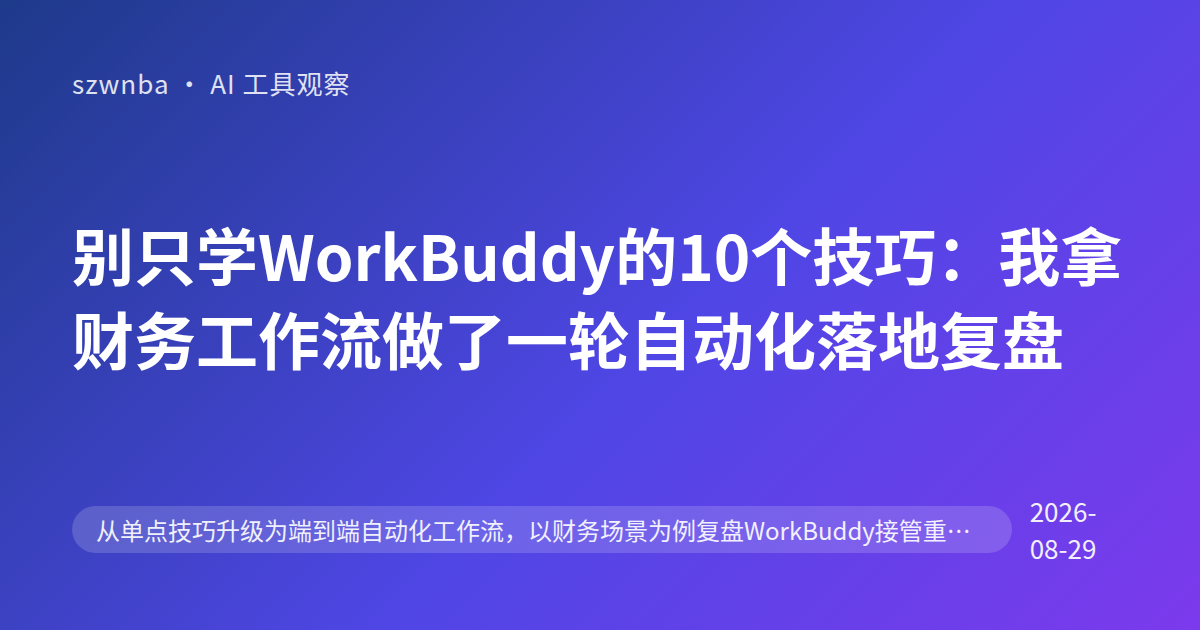
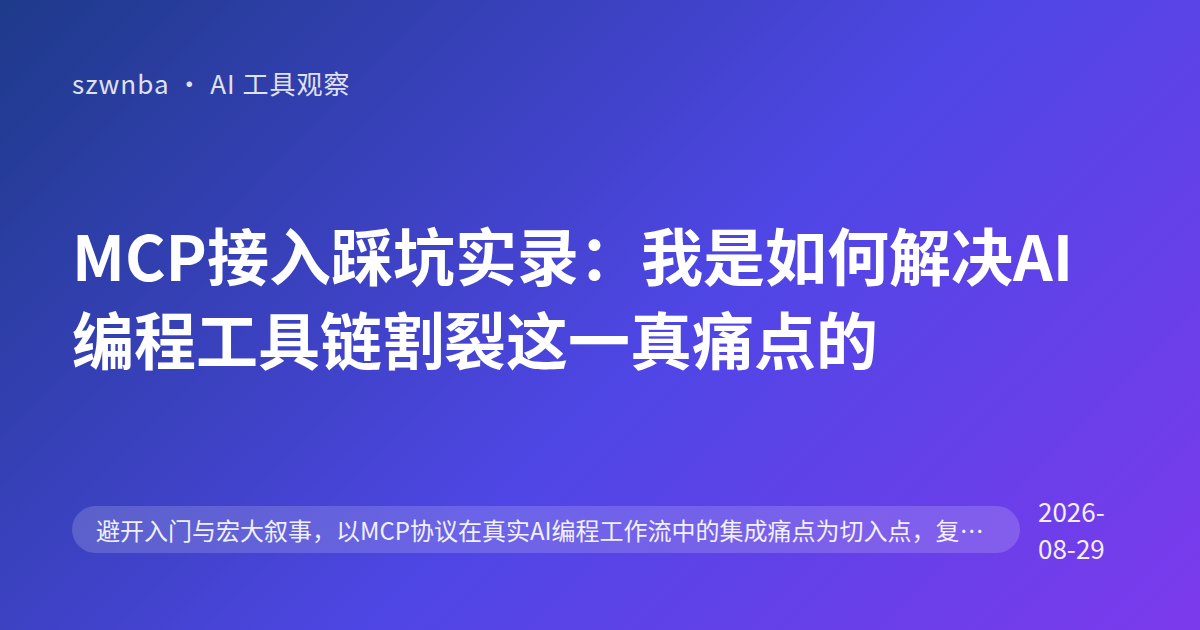
publish: 2026-08-29 10:45

diff --git a/posts/2026-08-29-02.html b/posts/2026-08-29-02.html
@@ -1,16 +1,16 @@
 <!DOCTYPE html>
 <html lang="zh-CN"><head><meta charset="utf-8"/>
 <meta name="viewport" content="width=device-width, initial-scale=1"/>
-<title>别只学WorkBuddy的10个技巧：我拿财务工作流做了一轮自动化落地复盘 · szwnba · AI 工具观察</title>
+<title>MCP接入踩坑实录：我是如何解决AI编程工具链割裂这一真痛点的 · szwnba · AI 工具观察</title>
 <link rel="stylesheet" href="../style.css"/>
 </head><body>
 <header class="site"><div class="container">
 <h1><a href="../index.html">← szwnba · AI 工具观察</a></h1>
 </div></header>
 <main class="container"><article class="post">
-<h1>别只学WorkBuddy的10个技巧：我拿财务工作流做了一轮自动化落地复盘</h1>
-<div class="meta">2026-08-29 · 从单点技巧升级为端到端自动化工作流，以财务场景为例复盘WorkBuddy接管重复性劳动的真实落地路径与边界。 · AI 辅助生成</div>
-<p>&lt;h1&gt;别只学WorkBuddy的10个技巧：我拿财务工作流做了一轮自动化落地复盘&lt;/h1&gt;<br/>&lt;p&gt;之前很多人问我WorkBuddy怎么玩。&lt;/p&gt;<br/>&lt;p&gt;我随手甩了10个快捷键技巧过去。&lt;/p&gt;<br/>&lt;p&gt;他们回：「学会了，但我还是觉得我在用AI。」&lt;/p&gt;<br/>&lt;p&gt;这话挺扎心的。&lt;/p&gt;<br/>&lt;p&gt;因为我刚开始也是这么用的。&lt;/p&gt;<br/>&lt;p&gt;把WorkBuddy当成一个超级聪明的实习生。&lt;/p&gt;<br/>&lt;p&gt;哪怕只是帮我把Excel里的乱码清洗一下，我也得手动点鼠标、复制粘贴、再发给它。&lt;/p&gt;<br/>&lt;p&gt;这哪里是提效，这分明是给AI打工。&lt;/p&gt;<br/>&lt;p&gt;直到上个月，我们部门接了一个月度结账的任务。&lt;/p&gt;<br/>&lt;p&gt;一共要处理50家子公司的费用报销单。&lt;/p&gt;<br/>&lt;p&gt;以前这事儿得弄三天。&lt;/p&gt;<br/>&lt;p&gt;这次我想试试，能不能用WorkBuddy搭一条流水线，让它从「助手」变成「主管」。&lt;/p&gt;<br/>&lt;p&gt;过程挺折腾的，但我把这个复盘写出来，希望能帮你省点时间。&lt;/p&gt;<br/>&lt;p&gt;先说说背景。&lt;/p&gt;<br/>&lt;p&gt;我们的财务数据分散在三个地方：&lt;/p&gt;<br/>&lt;p&gt;微信里的发票图片、钉钉上的审批记录、还有ERP系统导出的原始流水。&lt;/p&gt;<br/>&lt;p&gt;这三块数据，平时基本靠人工搬运。&lt;/p&gt;<br/>&lt;p&gt;我当时的设想很简单。&lt;/p&gt;<br/>&lt;p&gt;让WorkBuddy自动完成整个闭环。&lt;/p&gt;<br/>&lt;p&gt;不需要我盯着，也不需要我每天去检查进度。&lt;/p&gt;<br/>&lt;p&gt;我要的是：周一早上9点，我打开文档，报表已经在那儿了。&lt;/p&gt;<br/>&lt;p&gt;听起来很爽对吧？&lt;/p&gt;<br/>&lt;p&gt;但现实是，你根本不知道怎么开始。&lt;/p&gt;<br/>&lt;p&gt;因为「自动化」这三个字太宏大了。&lt;/p&gt;<br/>&lt;p&gt;你得把它拆碎，拆到连傻瓜都能看懂的步骤。&lt;/p&gt;<br/>&lt;p&gt;我把整个流程拆成了四步：&lt;/p&gt;<br/>&lt;p&gt;第一步，数据收集。&lt;/p&gt;<br/>&lt;p&gt;第二步，数据清洗。&lt;/p&gt;<br/>&lt;p&gt;第三步，智能对账。&lt;/p&gt;<br/>&lt;p&gt;第四步，报告生成。&lt;/p&gt;<br/>&lt;p&gt;听起来很顺，对吧？&lt;/p&gt;<br/>&lt;p&gt;第一步就卡住了。&lt;/p&gt;<br/>&lt;p&gt;微信里的发票图片，WorkBuddy怎么拿？&lt;/p&gt;<br/>&lt;p&gt;它不能直接登录你的微信。&lt;/p&gt;<br/>&lt;p&gt;我试了很多办法，最后发现最简单的办法是「半自动」。&lt;/p&gt;<br/>&lt;p&gt;我用一个自动化工具（比如Dify或者类似的Agent平台），设置一个定时任务。&lt;/p&gt;<br/>&lt;p&gt;每天早上8点，自动抓取前一天转发到指定文件助手的发票图片。&lt;/p&gt;<br/>&lt;p&gt;然后，把这些图片推送到WorkBuddy的输入端。&lt;/p&gt;<br/>&lt;p&gt;这一步，我花了一整天调试。&lt;/p&gt;<br/>&lt;p&gt;因为微信的图片经常压缩，导致OCR识别率只有60%。&lt;/p&gt;<br/>&lt;p&gt;后来我把图片的清晰度参数调高，同时要求WorkBuddy在识别模糊时，不要瞎猜，而是把原文截图发回给我确认。&lt;/p&gt;<br/>&lt;p&gt;这一步的边界是：&lt;/p&gt;<br/>&lt;p&gt;AI不能完全替代人工确认，尤其是涉及钱的时候。&lt;/p&gt;<br/>&lt;p&gt;所以，我给它加了一个「红灯机制」。&lt;/p&gt;<br/>&lt;p&gt;凡是置信度低于90%的数据，全部暂停，等待人工干预。&lt;/p&gt;<br/>&lt;p&gt;这一步让我意识到：&lt;/p&gt;<br/>&lt;p&gt;自动化不是为了偷懒，是为了把人的精力集中在出错的环节。&lt;/p&gt;<br/>&lt;p&gt;第二步，数据清洗。&lt;/p&gt;<br/>&lt;p&gt;这是WorkBuddy最擅长的部分。&lt;/p&gt;<br/>&lt;p&gt;我把从各个渠道汇总来的原始数据，扔给它。&lt;/p&gt;<br/>&lt;p&gt;要求它按照固定的格式，整理成一张宽表。&lt;/p&gt;<br/>&lt;p&gt;包括：日期、金额、科目、发票号、报销人。&lt;/p&gt;<br/>&lt;p&gt;这里有个坑。&lt;/p&gt;<br/>&lt;p&gt;不同子公司用的Excel模板不一样。&lt;/p&gt;<br/>&lt;p&gt;有的叫「金额」，有的叫「含税金额」，有的甚至把备注写在了金额栏里。&lt;/p&gt;<br/>&lt;p&gt;我一开始想让它全自动处理。&lt;/p&gt;<br/>&lt;p&gt;结果报错报得我怀疑人生。&lt;/p&gt;<br/>&lt;p&gt;后来我改变策略。&lt;/p&gt;<br/>&lt;p&gt;不要求它一次搞定。&lt;/p&gt;<br/>&lt;p&gt;而是先让它把格式统一的子集处理好，剩下的差异项单独列出来。&lt;/p&gt;<br/>&lt;p&gt;我把它当成一个「数据翻译官」。&lt;/p&gt;<br/>&lt;p&gt;它负责把乱码翻译成统一的语言，但不能擅自决定那些模棱两可的数据该怎么填。&lt;/p&gt;<br/>&lt;p&gt;这一步教会我：&lt;/p&gt;<br/>&lt;p&gt;标准化的数据源，是自动化工作流的地基。&lt;/p&gt;<br/>&lt;p&gt;地基不稳，上面的楼越高越危险。&lt;/p&gt;<br/>&lt;p&gt;第三步，智能对账。&lt;/p&gt;<br/>&lt;p&gt;这是最激动人心的一步。&lt;/p&gt;<br/>&lt;p&gt;我把ERP导出的银行流水，和刚才清洗好的报销明细，一起喂给WorkBuddy。&lt;/p&gt;<br/>&lt;p&gt;让它做逐笔核对。&lt;/p&gt;<br/>&lt;p&gt;我设定的指令是：&lt;/p&gt;<br/>&lt;p&gt;找出所有金额一致但备注不同的条目，以及金额不一致的异常条目。&lt;/p&gt;<br/>&lt;p&gt;Output要求：生成一个Excel，标红异常项，并附上可能的原因推测。&lt;/p&gt;<br/>&lt;p&gt;比如，「A公司这笔款项，报销单写的是差旅费，但银行摘要写的是服务费，请复核。」&lt;/p&gt;<br/>&lt;p&gt;这一功能，以前需要财务同事盯两天。&lt;/p&gt;<br/>&lt;p&gt;现在，WorkBuddy半小时就跑完了。&lt;/p&gt;<br/>&lt;p&gt;虽然它还无法100%准确判断对错（毕竟它不懂业务背景），但它能发现90%以上的机械性错误。&lt;/p&gt;<br/>&lt;p&gt;比如重复报销、金额小数点点错、同一天同一人重复提交等。&lt;/p&gt;<br/>&lt;p&gt;这些死角，人眼容易疲劳错过，但AI不会。&lt;/p&gt;<br/>&lt;p&gt;这就是「端到端」的价值。&lt;/p&gt;<br/>&lt;p&gt;不是帮你要找一张纸，而是帮你守住一个门。&lt;/p&gt;<br/>&lt;p&gt;第四步，报告生成。&lt;/p&gt;<br/>&lt;p&gt;前面的数据都核对无误后，让WorkBuddy基于这张宽表，生成一段文字分析。&lt;/p&gt;<br/>&lt;p&gt;比如：&lt;/p&gt;<br/>&lt;p&gt;「本月差旅费环比上涨15%，主要贡献来自研发部门。」&lt;/p&gt;<br/>&lt;p&gt;「有3笔大额支出缺乏完整附件，建议跟进。」&lt;/p&gt;<br/>&lt;p&gt;它会把结论写得像个人事报告一样通顺。&lt;/p&gt;<br/>&lt;p&gt;我把这段文字，直接粘贴到向老板汇报的PPT里。&lt;/p&gt;<br/>&lt;p&gt;省去了最后半小时的写话时间。&lt;/p&gt;<br/>&lt;p&gt;整个流程跑通后，效果如何？&lt;/p&gt;<br/>&lt;p&gt;以前50家子公司，我要花3天。&lt;/p&gt;<br/>&lt;p&gt;现在，我只花半天。&lt;/p&gt;<br/>&lt;p&gt;这半天用来做什么？&lt;/p&gt;<br/>&lt;p&gt;用来处理那些WorkBuddy标记出来的「红灯」异常。&lt;/p&gt;<br/>&lt;p&gt;以及，用来思考为什么会有这些异常。&lt;/p&gt;<br/>&lt;p&gt;以前我的时间是花在「搬运」上。&lt;/p&gt;<br/>&lt;p&gt;现在我的时间是花在「判断」上。&lt;/p&gt;<br/>&lt;p&gt;这才是高级玩家和低级玩家的区别。&lt;/p&gt;<br/>&lt;p&gt;低级玩家用AI写文章，高级玩家用AI搭系统。&lt;/p&gt;<br/>&lt;p&gt;当然，这个工作流并不是完美的。&lt;/p&gt;<br/>&lt;p&gt;它有几个明显的边界，我必须诚实地告诉你。&lt;/p&gt;<br/>&lt;p&gt;首先是数据隐私。&lt;/p&gt;<br/>&lt;p&gt;如果你的公司禁止使用外部AI工具处理财务数据，这套方案直接报废。&lt;/p&gt;<br/>&lt;p&gt;你需要在本地部署模型，或者使用私有云版本的WorkBuddy。&lt;/p&gt;<br/>&lt;p&gt;这点我没有深入展开，因为涉及很多技术架构问题，大家按需调研。&lt;/p&gt;<br/>&lt;p&gt;其次是维护成本。&lt;/p&gt;<br/>&lt;p&gt;这套流水线一旦上游系统变了，比如ERP导出格式调整了一列，工作流就会断。&lt;/p&gt;<br/>&lt;p&gt;你需要有专人（或者你自己）随时关注这些接口变化。&lt;/p&gt;<br/>&lt;p&gt;它不是「装好就不用管」的东西，它是一个需要精心照料的机器人。&lt;/p&gt;<br/>&lt;p&gt;最后是信任成本。&lt;/p&gt;<br/>&lt;p&gt;刚开始，财务同事很抗拒。&lt;/p&gt;<br/>&lt;p&gt;因为他们怕AI算错账，背锅。&lt;/p&gt;<br/>&lt;p&gt;我花了两周时间，每天把AI的结果和人工复核的结果放在旁边对比。&lt;/p&gt;<br/>&lt;p&gt;让他们看到，AI确实能发现人眼忽略的细节。&lt;/p&gt;<br/>&lt;p&gt;慢慢地，他们开始主动提需求。&lt;/p&gt;<br/>&lt;p&gt;比如：「能不能帮我查查这家的历史付款规律？」&lt;/p&gt;<br/>&lt;p&gt;这时候，自动化才真正产生了价值。&lt;/p&gt;<br/>&lt;p&gt;所以，回到一开始的问题。&lt;/p&gt;<br/>&lt;p&gt;别只学那10个技巧。&lt;/p&gt;<br/>&lt;p&gt;技巧是点，工作流是线，系统是面。&lt;/p&gt;<br/>&lt;p&gt;你可以先从一个小场景切入。&lt;/p&gt;<br/>&lt;p&gt;比如，自动汇总周报。&lt;/p&gt;<br/>&lt;p&gt;或者，自动整理会议纪要并提取待办事项。&lt;/p&gt;<br/>&lt;p&gt;不要一上来就搞财务对账这种大事。&lt;/p&gt;<br/>&lt;p&gt;先跑通一个小闭环，找到那个「原来可以这样」的爽点。&lt;/p&gt;<br/>&lt;p&gt;然后，再把这条线延伸出去。&lt;/p&gt;<br/>&lt;p&gt;AI不会替你思考，但它可以替你挡住那些平庸的噪音。&lt;/p&gt;<br/>&lt;p&gt;让你有余力，去思考那些真正重要的事。&lt;/p&gt;<br/>&lt;p&gt;这是我这个月最大的心得。&lt;/p&gt;<br/>&lt;hr/&gt;<br/>&lt;p&gt;&lt;strong&gt;需要我人工补充的地方：&lt;/strong&gt;&lt;/p&gt;<br/>&lt;ol&gt;&lt;li&gt;【待补充】具体的中间件配置教程：如何设置微信图片自动抓取脚本（如果读者技术背景较弱，可能需要更详细的图解或视频链接）。&lt;/li&gt;&lt;li&gt;【待补充】具体的Prompt范例：关于「智能对账」那一步，我给出的提示词可能不够通用，可以补充一个针对其他行业（如销售数据对账）的Prompt模板。&lt;/li&gt;&lt;li&gt;【待补充】本地部署方案：对于有严格数据安全要求的读者，可以补充一个简单的本地LLM部署（如Ollama+WorkBuddy）的入门指引。&lt;/li&gt;&lt;/ol&gt;</p>
+<h1>MCP接入踩坑实录：我是如何解决AI编程工具链割裂这一真痛点的</h1>
+<div class="meta">2026-08-29 · 避开入门与宏大叙事，以MCP协议在真实AI编程工作流中的集成痛点为切入点，复盘从环境配置到多Agent协同踩坑与解决的完整一手实操经历。 · AI 辅助生成</div>
+<p>&lt;h1&gt;MCP接入踩坑实录：我是如何解决AI编程工具链割裂这一真痛点的&lt;/h1&gt;<br/>&lt;p&gt;前阵子想给本地跑的一个 Agent 加个能调取本地文件的能力。&lt;/p&gt;<br/>&lt;p&gt;按理说，这应该是刚需中的刚需。&lt;/p&gt;<br/>&lt;p&gt;但我花了一整天时间，最后只换来一串报错和满屏的 JSON  Schema 看不懂。&lt;/p&gt;<br/>&lt;p&gt;也就是那一刻我意识到，MCP（Model Context Protocol）这概念，吹得太好听，用起来全是坑。&lt;/p&gt;<br/>&lt;p&gt;今天不聊宏观架构，就聊聊我在真实 AI 编程工作流里，到底踩了哪些雷，又是怎么填上的。&lt;/p&gt;<br/>&lt;p&gt;如果你也正在试图把 MCP 塞进自己的开发环境，这篇也许能帮你省下几个下午。&lt;/p&gt;<br/>&lt;figure style=&quot;margin:0&quot;&gt;&lt;img src=&quot;此处待补图&quot; alt=&quot;图注：MCP 协议架构图，展示客户端、服务器与资源的连接&quot;/&gt;&lt;figcaption style=&quot;text-align:center;color:#9ca3af;font-size:13px;margin:4px 0 18px&quot;&gt;图注：MCP 协议架构图，展示客户端、服务器与资源的连接&lt;/figcaption&gt;&lt;/figure&gt;<br/>&lt;p&gt;先说说背景。&lt;/p&gt;<br/>&lt;p&gt;我手头有几个常用的编程助手：Cursor、Cline、还有自己用 Python 写的简单脚本。&lt;/p&gt;<br/>&lt;p&gt;它们的共同点是：都很强，但都很孤立。&lt;/p&gt;<br/>&lt;p&gt;Cursor 不知道我本地数据库有什么表。&lt;/p&gt;<br/>&lt;p&gt;Cline 不知道我项目里最新的配置文档在哪。&lt;/p&gt;<br/>&lt;p&gt;每次换工具，我就得重新教它一遍环境。&lt;/p&gt;<br/>&lt;p&gt;这太累了。&lt;/p&gt;<br/>&lt;p&gt;MCP 的出现，本来是为了统一这个标准，让工具之间能互相“看懂”对方。&lt;/p&gt;<br/>&lt;p&gt;理想很丰满。&lt;/p&gt;<br/>&lt;p&gt;现实是，当你真的去配的时候，你会发现这玩意儿比想象中复杂得多。&lt;/p&gt;<br/>&lt;p&gt;第一个坑，是环境的“玄学”。&lt;/p&gt;<br/>&lt;p&gt;很多人推荐直接用 VS Code 插件或者 Cursor 内置支持。&lt;/p&gt;<br/>&lt;p&gt;听起来很省事，对吧？&lt;/p&gt;<br/>&lt;p&gt;但我试过之后发现，版本差异极其致命。&lt;/p&gt;<br/>&lt;p&gt;你安装的 MCP Host 版本，必须严格对应你写的 Server 规范版本。&lt;/p&gt;<br/>&lt;p&gt;差一个小版本号，它就 silently fail（静默失败）。&lt;/p&gt;<br/>&lt;p&gt;不报错，不提示，就是连不上。&lt;/p&gt;<br/>&lt;p&gt;我当时排查了整整两个小时，最后发现是我的 &lt;code&gt;mcp.json&lt;/code&gt; 配置文件里，Node.js 路径写错了。&lt;/p&gt;<br/>&lt;p&gt;在 Windows 环境下，那个路径里的空格特别搞人心态。&lt;/p&gt;<br/>&lt;p&gt;建议大家在配置文件里，尽量用引号把路径包起来，或者直接避免在带空格的路径下安装 Node。&lt;/p&gt;<br/>&lt;p&gt;这是血泪教训。&lt;/p&gt;<br/>&lt;p&gt;第二个坑，是“资源”的定义。&lt;/p&gt;<br/>&lt;p&gt;MCP 的核心概念里有 Resources（资源）和 Tools（工具）两个东西。&lt;/p&gt;<br/>&lt;p&gt;Resources 是给 Agent 看的，比如你的 README、你的代码文件。&lt;/p&gt;<br/>&lt;p&gt;Tools 是给 Agent 用的，比如 &lt;code&gt;run<em>command&lt;/code&gt;、&lt;code&gt;read</em>file&lt;/code&gt;。&lt;/p&gt;<br/>&lt;p&gt;很多教程把这个混为一谈。&lt;/p&gt;<br/>&lt;p&gt;我一开始也是，把所有东西都定义成 Tool。&lt;/p&gt;<br/>&lt;p&gt;结果呢？&lt;/p&gt;<br/>&lt;p&gt;Agent 每次思考都要先调用一遍工具去读取信息，再调用一遍去执行操作。&lt;/p&gt;<br/>&lt;p&gt;逻辑混乱，Token 消耗爆炸。&lt;/p&gt;<br/>&lt;p&gt;正确的做法应该是：把静态的、只读的信息做成 Resource，让 Agent 能一次性拉取上下文。&lt;/p&gt;<br/>&lt;p&gt;把动态的、需要执行的动作做成 Tool。&lt;/p&gt;<br/>&lt;p&gt;这样 Agent 才能像人一样，先“看”后“做”。&lt;/p&gt;<br/>&lt;p&gt;我把项目目录下的 &lt;code&gt;docs/&lt;/code&gt; 文件夹配置成了 Resource，然后 Agent 再调用 &lt;code&gt;execute_script&lt;/code&gt; 这个 Tool。&lt;/p&gt;<br/>&lt;p&gt;效果立竿见影。&lt;/p&gt;<br/>&lt;p&gt;它的回复质量明显变高了，因为它不再盲目猜测，而是基于我提供的文档上下文在行动。&lt;/p&gt;<br/>&lt;figure style=&quot;margin:0&quot;&gt;&lt;img src=&quot;此处待补图&quot; alt=&quot;图注：MCP Resource 与 Tool 的逻辑分离示意图&quot;/&gt;&lt;figcaption style=&quot;text-align:center;color:#9ca3af;font-size:13px;margin:4px 0 18px&quot;&gt;图注：MCP Resource 与 Tool 的逻辑分离示意图&lt;/figcaption&gt;&lt;/figure&gt;<br/>&lt;p&gt;第三个坑，也是最深的一个坑：多 Agent 协同时的状态同步。&lt;/p&gt;<br/>&lt;p&gt;当我尝试让两个不同的 Agent 同时访问同一个 MCP Server 时，问题出现了。&lt;/p&gt;<br/>&lt;p&gt;一个 Agent 修改了本地配置，另一个 Agent 读到的还是旧数据。&lt;/p&gt;<br/>&lt;p&gt;因为 MCP 默认是无状态的，它不感知谁改了什么。&lt;/p&gt;<br/>&lt;p&gt;这在单机开发里还好，一旦涉及协作，就是灾难。&lt;/p&gt;<br/>&lt;p&gt;我的解法比较土，但有效。&lt;/p&gt;<br/>&lt;p&gt;我在 MCP Server 层加了一个简单的锁机制。&lt;/p&gt;<br/>&lt;p&gt;任何写操作（Write Operation）必须持有锁，读完释放。&lt;/p&gt;<br/>&lt;p&gt;虽然这牺牲了一点并发性，但保证了数据的一致性。&lt;/p&gt;<br/>&lt;p&gt;对于大多数个人开发者来说，够用。&lt;/p&gt;<br/>&lt;p&gt;如果你需要更高并发，可能需要引入 Redis 这种外部存储来做状态管理，但那复杂度就上去了。&lt;/p&gt;<br/>&lt;p&gt;这时候你可能会问：值得吗？&lt;/p&gt;<br/>&lt;p&gt;为了一个协议，搞这么复杂。&lt;/p&gt;<br/>&lt;p&gt;我的回答是：值得，但要分阶段。&lt;/p&gt;<br/>&lt;p&gt;如果你只是偶尔用用 AI 写代码，没必要折腾 MCP。&lt;/p&gt;<br/>&lt;p&gt;直接用 IDE 自带的插件，或者现有的自动化脚本就够了。&lt;/p&gt;<br/>&lt;p&gt;但如果你是重度 AI 编程用户，比如像我这样，每天依靠 AI 生成大量代码、维护多个项目的。&lt;/p&gt;<br/>&lt;p&gt;那么，构建一套属于自己的 MCP 生态，是迟早的事。&lt;/p&gt;<br/>&lt;p&gt;因为它解决的根本问题是：你希望 AI 具备“记忆”和“感知”能力，而不仅仅是陪聊。&lt;/p&gt;<br/>&lt;p&gt;目前的 MCP 生态还处于野蛮生长阶段。&lt;/p&gt;<br/>&lt;p&gt;规范还在变，工具还在堆。&lt;/p&gt;<br/>&lt;p&gt;今天好用的配置，明天可能就不兼容了。&lt;/p&gt;<br/>&lt;p&gt;所以，我在写这篇复盘的时候，特意没有放具体的代码片段。&lt;/p&gt;<br/>&lt;p&gt;因为代码细节很快就会过时。&lt;/p&gt;<br/>&lt;p&gt;我更想分享的是这个思维模型：&lt;/p&gt;<br/>&lt;p&gt;把 AI 编程工具看作是一个新的“操作系统”。&lt;/p&gt;<br/>&lt;p&gt;MCP 就是它的 API 接口。&lt;/p&gt;<br/>&lt;p&gt;你现在做的所有配置、踩过的所有坑，都是在为这个新系统打基础。&lt;/p&gt;<br/>&lt;p&gt;不要指望它现在就很完美。&lt;/p&gt;<br/>&lt;p&gt;就像早期的 Web 开发一样，充满了浏览器兼容性问题。&lt;/p&gt;<br/>&lt;p&gt;但你总得有人先去趟雷。&lt;/p&gt;<br/>&lt;p&gt;如果你正在尝试接入 MCP，我有几个小建议。&lt;/p&gt;<br/>&lt;p&gt;第一，从最简单的 Start 开始。&lt;/p&gt;<br/>&lt;p&gt;不要一上来就搞分布式，搞多 Agent。&lt;/p&gt;<br/>&lt;p&gt;先让一个 Agent 能读你的一个文件，能运行一个命令。&lt;/p&gt;<br/>&lt;p&gt;跑通了，再扩展。&lt;/p&gt;<br/>&lt;p&gt;第二，多看官方文档，少看博客。&lt;/p&gt;<br/>&lt;p&gt;很多博客里的配置都是过时的，甚至是有错误的。&lt;/p&gt;<br/>&lt;p&gt;官方文档虽然枯燥，但它是最准确的真相来源。&lt;/p&gt;<br/>&lt;p&gt;特别是关于 JSON Schema 的定义部分，值得逐字阅读。&lt;/p&gt;<br/>&lt;p&gt;第三，保留调试日志。&lt;/p&gt;<br/>&lt;p&gt;MCP 的日志通常很长，而且冗杂。&lt;/p&gt;<br/>&lt;p&gt;但我建议开启 Debug 模式，把输出重定向到一个文件。&lt;/p&gt;<br/>&lt;p&gt;出问题的时候，回头看日志，往往能找到关键线索。&lt;/p&gt;<br/>&lt;p&gt;很多时候，报错信息本身就藏在那些看似无关的 JSON 响应里。&lt;/p&gt;<br/>&lt;figure style=&quot;margin:0&quot;&gt;&lt;img src=&quot;此处待补图&quot; alt=&quot;图注：MCP 调试日志示例截图&quot;/&gt;&lt;figcaption style=&quot;text-align:center;color:#9ca3af;font-size:13px;margin:4px 0 18px&quot;&gt;图注：MCP 调试日志示例截图&lt;/figcaption&gt;&lt;/figure&gt;<br/>&lt;p&gt;最后，我想说的是，技术债总是先于收益到来的。&lt;/p&gt;<br/>&lt;p&gt;MCP 现在的混乱，正是因为它处于早期阶段。&lt;/p&gt;<br/>&lt;p&gt;但我们作为开发者，恰恰应该在这个阶段入场。&lt;/p&gt;<br/>&lt;p&gt;因为现在的每一次踩坑，都是在定义未来的标准。&lt;/p&gt;<br/>&lt;p&gt;我在配置过程中，曾经无数次想要放弃。&lt;/p&gt;<br/>&lt;p&gt;心想：为什么不用个简单的 HTTP 接口就算了？&lt;/p&gt;<br/>&lt;p&gt;后来我发现，如果我用了 HTTP 接口，我就永远被困在自己的私域里。&lt;/p&gt;<br/>&lt;p&gt;MCP 的价值，在于它的通用性。&lt;/p&gt;<br/>&lt;p&gt;它让你写的工具，可以被未来的任何 AI 框架复用。&lt;/p&gt;<br/>&lt;p&gt;这是一种投资。&lt;/p&gt;<br/>&lt;p&gt;虽然回报率现在还看不清，但方向是对的。&lt;/p&gt;<br/>&lt;p&gt;我希望我的这些踩坑经验，能让你少掉几根头发。&lt;/p&gt;<br/>&lt;p&gt;或者，至少让你知道，当你遇到那些莫名其妙的报错时，并不是你一个人这么倒霉。&lt;/p&gt;<br/>&lt;p&gt;大家都一样。&lt;/p&gt;<br/>&lt;p&gt;这就是 MCP 接入的真实面目： messy, painful, but powerful.&lt;/p&gt;<br/>&lt;p&gt;messy，因为生态未定。&lt;/p&gt;<br/>&lt;p&gt;painful，因为学习曲线陡峭。&lt;/p&gt;<br/>&lt;p&gt;powerful，因为它打开了 AI 编程的新维度。&lt;/p&gt;<br/>&lt;p&gt;愿我们在各自的 Agent 世界里，都能找到那个“啊哈”的时刻。&lt;/p&gt;<br/>&lt;p&gt;哪怕那个时刻来得晚了一些。&lt;/p&gt;</p>
 
 </article></main>
 <footer class="site">由 wechat-article-pipeline 全自动生成</footer>

diff --git a/index.html b/index.html
@@ -8,7 +8,7 @@
 <h1><a href="index.html">szwnba · AI 工具观察</a></h1>
 <p>选题 · 写稿 · 配图全由流水线自动生成，内容为 AI 观察与实操记录 · <a href="feed.xml">RSS</a></p>
 </div></header>
-<main class="container"><a class="post-card" href="posts/2026-08-29-02.html"><img class="cover" src="assets/2026-08-29-02/cover.png" alt=""/><h2>别只学WorkBuddy的10个技巧：我拿财务工作流做了一轮自动化落地复盘</h2><div class="meta"><span class="angle">从单点技巧升级为端到端自动化工作流，以财务场景为例复盘WorkBuddy接管重复性劳动的真实落地路径与边界。</span>2026-08-29</div><p>别只学WorkBuddy的10个技巧：我拿财务工作流做了一轮自动化落地复盘 之前很多人问我WorkBuddy怎么玩。 我随手甩了10个快捷键技巧过去。 他们回：「学会了，但我还是觉…</p></a>
+<main class="container"><a class="post-card" href="posts/2026-08-29-02.html"><img class="cover" src="assets/2026-08-29-02/cover.png" alt=""/><h2>MCP接入踩坑实录：我是如何解决AI编程工具链割裂这一真痛点的</h2><div class="meta"><span class="angle">避开入门与宏大叙事，以MCP协议在真实AI编程工作流中的集成痛点为切入点，复盘从环境配置到多Agent协同踩坑与解决的完整一手实操经历。</span>2026-08-29</div><p>MCP接入踩坑实录：我是如何解决AI编程工具链割裂这一真痛点的 前阵子想给本地跑的一个 Agent 加个能调取本地文件的能力。 按理说，这应该是刚需中的刚需。 但我花了一整天时间，…</p></a>
 <a class="post-card" href="posts/2026-08-29-01.html"><h2>这个博客是全自动的：选题、写稿、配图都不用人动手</h2><div class="meta"><span class="angle">关于本站</span>2026-08-29</div><p>你好，访客。 这是一个由流水线全自动生成的博客。 每天早上 7 点，GitHub Actions 会自动跑一遍完整流程：先跑「选题雷达」扫描公众号同行在写什么、全网热度如何；然后由…</p></a></main>
 <footer class="site">由 wechat-article-pipeline 全自动生成 · 内容含 AI 生成部分，请注意甄别</footer>
 </body></html>
